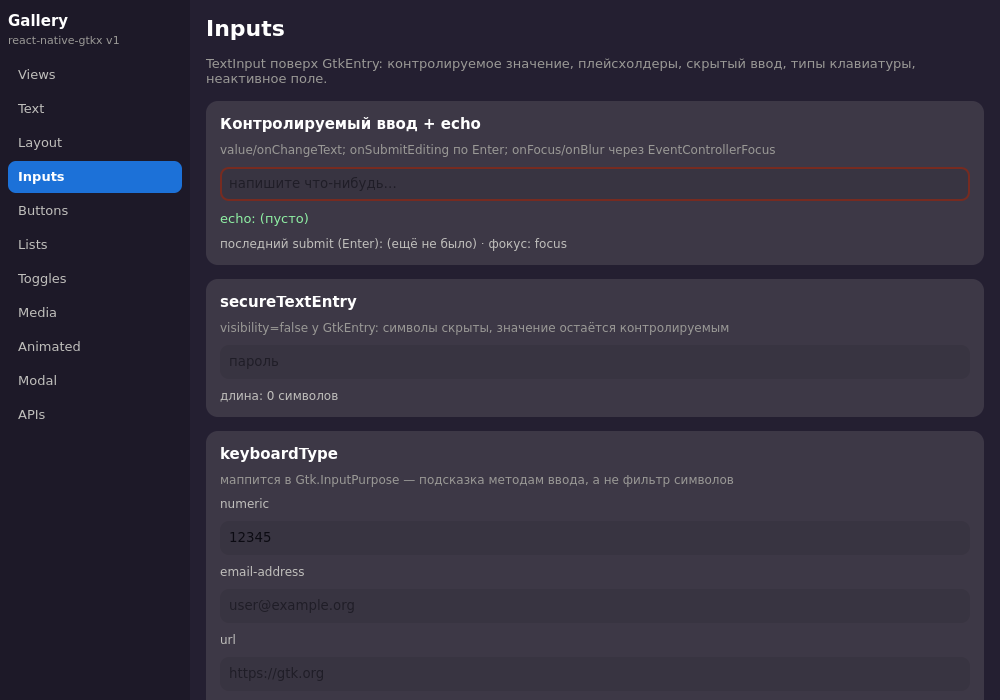
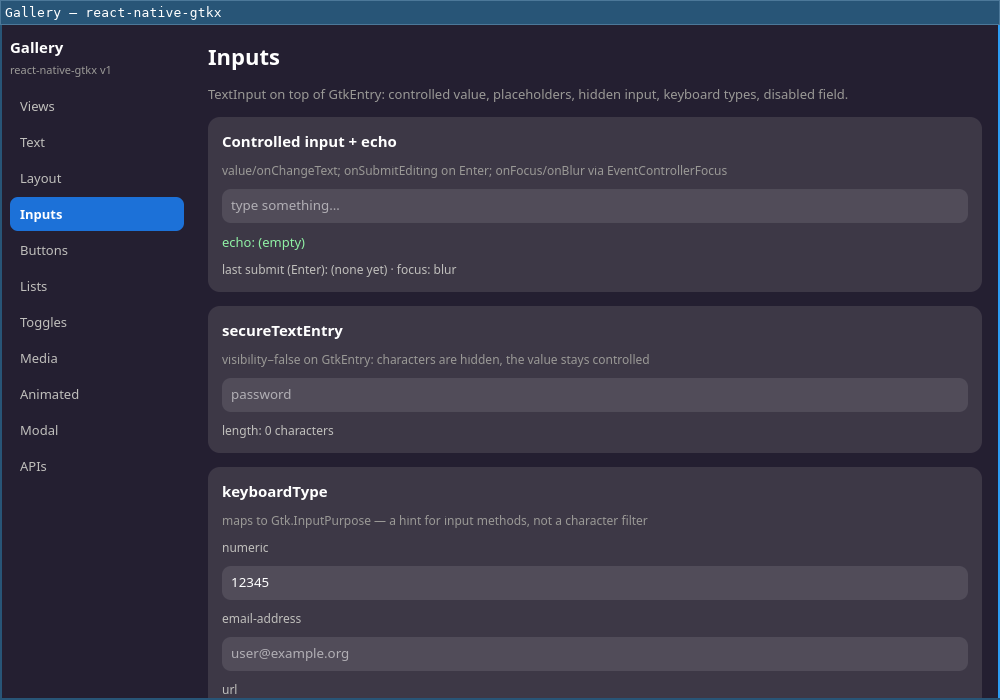
gallery: canonical spring + paint-overflow showcase; regenerate golden shots
The spring demo is plain RN code again — a direct 0..1 → pixels
interpolation, no reflecting math: the overshoot honestly flies past the
track edge and springs back. New paint-overflow card: the square leaves its
track and glides OVER the neighbor panel (sibling paint order is the RN
default z-order, so the demo puts the track after the neighbor); the golden
screenshot catches it mid-flight over the panel.

All 11 golden section screenshots regenerated on the new layout path
(English UI, dark theme); scripts/gallery-shots-vm.sh added — the headless
sway + grim variant for hosts where a desktop session owns the GPU.

diff --git a/examples/gallery/src/sections/animated.tsx b/examples/gallery/src/sections/animated.tsx
@@ -38,6 +38,20 @@ const styles = StyleSheet.create({
     fontWeight: "700",
     fontSize: 13,
   },
+  neighbor: {
+    flex: 1,
+    height: 40,
+    borderRadius: 8,
+    backgroundColor: palette.card,
+    borderWidth: 1,
+    borderColor: palette.cardAlt,
+    alignItems: "center",
+    justifyContent: "center",
+  },
+  neighborText: {
+    color: palette.textDim,
+    fontSize: 11,
+  },
   limitation: {
     color: "#f8e45c",
     fontSize: 12,
@@ -97,28 +111,21 @@ const TimingLoop = () => {
   )
 }
 
-// An underdamped spring OVERSHOOTS its target — that is its physics (at
-// damping 9 the overshoot is ~24% of the distance; no fixed margin would
-// help). So the spring drives a NORMALIZED 0↔1 value that is projected into
-// pixels by interpolate with extrapolate:"clamp" — overshoot pins the square
-// to the edge (pressed against the wall), it mathematically cannot leave the
-// track. Escaping past the right edge would inflate the natural size of the
-// GtkFixed (PRD branch B).
+// An underdamped spring OVERSHOOTS its target — that is its physics. Since
+// the custom layout manager landed, transforms are paint-only exactly like
+// in RN: the square honestly flies PAST the track edge over whatever sits
+// there and springs back, moving nothing. This is the canonical RN code —
+// a plain 0↔1 → pixels interpolation, no defensive math.
 const SpringToggle = () => {
   const [position] = useState(() => new Animated.Value(0))
   const [trackWidth, setTrackWidth] = useState(0)
   const atEnd = useRef(false)
 
-  // Reflecting interpolation instead of a clamp: overshoot past 1 mirrors
-  // back (x=1.2 → 0.8 of the width), so the square BOUNCES off the wall
-  // instead of sticking to it while the value comes back. Leaving the track
-  // is mathematically impossible for overshoot up to 100% of the distance.
   const translateX = useMemo(() => {
     const width = Math.max(0, trackWidth - 40)
     return position.interpolate({
-      inputRange: [-1, 0, 1, 2],
-      outputRange: [width, 0, width, 0],
-      extrapolate: "clamp",
+      inputRange: [0, 1],
+      outputRange: [0, width],
     })
   }, [position, trackWidth])
 
@@ -200,6 +207,61 @@ const OpacityPulse = () => {
   )
 }
 
+// The RN paint-overflow showcase: the square's home track is narrow, and the
+// animation slides it far past the track edge — it glides OVER the neighbor
+// panel and comes back. Nothing resizes, nothing shifts: transforms are
+// paint-only, ancestors and siblings keep their layout.
+const PaintOverflow = () => {
+  const [progress] = useState(() => new Animated.Value(0))
+
+  useEffect(() => {
+    const animation = Animated.loop(
+      Animated.sequence([
+        Animated.timing(progress, {
+          toValue: 1,
+          duration: 1200,
+          easing: Easing.inOut(Easing.quad),
+        }),
+        Animated.timing(progress, {
+          toValue: 0,
+          duration: 1200,
+          easing: Easing.inOut(Easing.quad),
+        }),
+      ]),
+    )
+    animation.start()
+    return () => animation.stop()
+    // eslint-disable-next-line react-hooks/exhaustive-deps
+  }, [])
+
+  // Negative X: the square flies LEFT over the neighbor. Sibling paint order
+  // is the RN default z-order (later siblings on top), so the track — the
+  // later sibling — paints its subtree over the neighbor panel.
+  const translateX = useMemo(
+    () => progress.interpolate({ inputRange: [0, 1], outputRange: [0, -200] }),
+    [progress],
+  )
+
+  return (
+    <View style={{ flexDirection: "row", gap: 12 }}>
+      <View style={styles.neighbor}>
+        <Text style={styles.neighborText}>neighbor — never moves</Text>
+      </View>
+      <View style={[styles.track, { width: 160 }]}>
+        <Animated.View
+          style={[
+            styles.square,
+            {
+              backgroundColor: palette.orange,
+              transform: [{ translateX }],
+            },
+          ]}
+        />
+      </View>
+    </View>
+  )
+}
+
 const DiagonalLoop = () => {
   const [progress] = useState(() => new Animated.Value(0))
 
@@ -249,7 +311,7 @@ const DiagonalLoop = () => {
 export const AnimatedSection = () => (
   <Section
     title="Animated"
-    subtitle="timing, spring, loop/sequence and interpolate; a direct path bypassing React: setOpacity on the widget and move in the parent GtkFixed on top of the base rect."
+    subtitle="timing, spring, loop/sequence and interpolate; a direct path bypassing React: setOpacity on the widget and layout-manager offsets on top of the base rect."
   >
     <DemoCard
       title="Animated.timing + loop"
@@ -260,9 +322,16 @@ export const AnimatedSection = () => (
 
     <DemoCard
       title="Animated.spring"
-      hint="stiffness/damping physics: the square jumps between the edges with overshoot"
+      hint="stiffness/damping physics: the overshoot honestly flies past the edge and springs back — transforms are paint-only, like in RN"
     >
       <SpringToggle />
+    </DemoCard>
+
+    <DemoCard
+      title="paint-overflow"
+      hint="the square flies out of its track and glides OVER the neighbor panel; the neighbor's layout does not move a pixel"
+    >
+      <PaintOverflow />
     </DemoCard>
 
     <DemoCard
